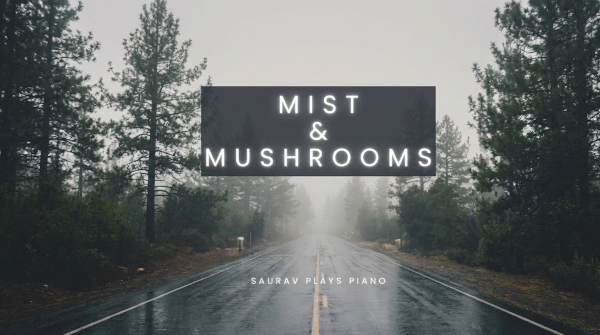
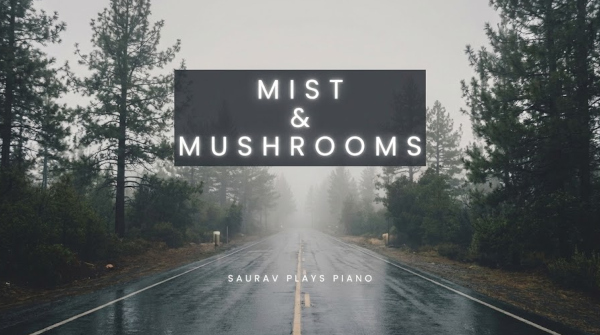
Minimalist look, new CTA

diff --git a/src/styles/global.css b/src/styles/global.css
@@ -71,7 +71,7 @@ html.dark {
 
 @theme inline {
     --font-sans: 'Inter Variable', sans-serif;
-    --font-serif: 'Inter Variable', serif;
+    --font-serif: 'Inter Variable', sans-serif;
     --text-color-main: var(--text-main);
     --background-color-main: var(--bg-main);
     --background-color-muted: var(--bg-muted);
@@ -112,4 +112,17 @@ html.dark {
     .prose blockquote {
         @apply font-serif font-normal border-none pl-0 text-[1.375em] leading-snug sm:text-[1.66667em];
     }
+
+    .prose img {
+        @apply w-full h-auto rounded-lg shadow-md my-8;
+    }
+    
+    .prose > p:first-of-type img {
+        @apply mt-0;
+    }    
+}
+
+/* Add this to the very bottom of global.css */
+.font-serif, [class*="font-serif"] {
+    font-family: 'Inter Variable', sans-serif !important;
 }

diff --git a/src/data/site-config.ts b/src/data/site-config.ts
@@ -1,5 +1,6 @@
 import avatar from '../assets/images/avatar.jpg';
 import hero from '../assets/images/hero.jpg';
+import mistCover from '../assets/images/mist-and-mushrooms-cover.jpg';
 import type { SiteConfig } from '../types';
 
 const siteConfig: SiteConfig = {
@@ -61,7 +62,7 @@ const siteConfig: SiteConfig = {
     ],
     hero: {
         title: 'Music for quiet moments',
-        text: "Minimalist piano compositions inspired by the misty Pacific Northwest.",
+        text: "Minimalist piano compositions inspired by the Pacific Northwest.",
         image: {
             src: hero,
             alt: 'A cinematic shot of a misty evergreen forest'
@@ -69,14 +70,16 @@ const siteConfig: SiteConfig = {
         actions: [
             {
                 text: 'Mist & Mushrooms - my debut track',
-                href: '/music/mist-and-mushrooms'
+                href: '/music/mist-and-mushrooms',
+                label: 'Debut Release',
+                image: mistCover.src
             }
         ]
     },
     subscribe: {
         enabled: true,
         title: 'Join my mailing list',
-        text: 'No spam, I promise. Only updates when I have something new to share. You can unsubscribe at any time.',
+        text: 'Occasional updates on new music. Unsubscribe anytime.',
         form: {
             action: 'https://assets.mailerlite.com/jsonp/2030410/forms/176325572793730648/subscribe',
             emailFieldName: 'fields[email]',

diff --git a/src/types.ts b/src/types.ts
@@ -13,7 +13,7 @@ export type Hero = {
     title?: string;
     text?: string;
     image?: ImageInput;
-    actions?: Link[];
+    actions?: (Link & { image?: string; label?: string })[];
 };
 
 export type SubscribeForm = {

diff --git a/src/content/music/mist-and-mushrooms.md b/src/content/music/mist-and-mushrooms.md
@@ -10,21 +10,23 @@ seo:
 
 ![Mist & Mushrooms](../../assets/images/mist-and-mushrooms-cover.jpg)
 
-## The Concept
+## The idea
 
-*Mist & Mushrooms* is a cinematic study of stillness and organic growth. Inspired by the quiet, foggy mornings in the Pacific Northwest, this piece focuses on the "felted" textures of the piano and the space between the notes.
+**Mist & Mushrooms** is my first ambient piano composition (not counting something I did years ago, which I might refresh and release). I tried to capture the feeling of walking through the woods in Oregon on a quiet, foggy morning.
 
-## Technical Breakdown
+## How I made it
 
-To capture the specific mood of the Oregon woods, I combined my classical roots with a modern digital workflow:
+I created a Cmaj7 - Fmaj7 chord progression in **iRealPro**, and then set that to loop while I doodled on my piano, a **Kawai Novus NV10**. At this stage I wasn't really thinking about the song structure, just playing with phrases. I recorded everything I played via MIDI.
 
-- **Performance:** Recorded via MIDI on a **Kawai Novus NV10**.
-- **Sound Design:** The primary voice is **Pianoteq**, using a felted preset on the **Bösendorfer** model to create a soft, intimate attack.
-- **Atmosphere:** Layered with gentle strings and ambient textures inside **Reaper**.
+I then took the MIDI recording into **Reaper**, and played around with the parts until I had something I liked. I tried to build up the song to something like a "chorus", and then come back down to the end. The primary voice is **Pianoteq**, using a felted preset on the **Bösendorfer** model to create a soft, intimate attack. I layered that with gentle strings and ambient textures.
+
+This was really my first time trying EQ, compressors, limiters, and so on, and it shows. Some day I'll probably look back at this and chuckle at myself. But for now I'm happy with the results.
 
 ## Status
 
 Out January 16th on Spotify, Apple Music, YouTube Music, Amazon Music, and other streaming platforms. Pre-save to your playlist [here](https://ffm.to/mistandmushrooms).
+
+*Thanks for listening,* — Saurav
 
 <!--
 <div style="aspect-ratio: 16 / 9; width: 100%;">